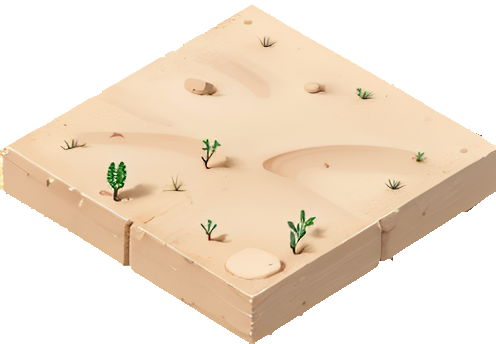
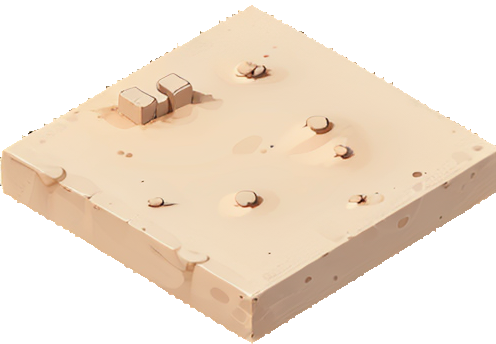
Reorganized and edited flat desert, vegetation, and forest textures; tweaked forest generation; improved river soil quality and worsened average desert soil quality

diff --git a/Map.cs b/Map.cs
@@ -22,9 +22,9 @@ public class Map
         tiles = new Tile[_mapTileSize.X *_mapTileSize.Y];
 
         // Load all of the tile textures
-        List<Texture2D> desertTextures = Sprites.LoadTextures("desert/flat", 30);
-        List<Texture2D> desertHillTextures = Sprites.LoadTextures("desert/hills", 5);
-        List<Texture2D> desertVegetationTextures = Sprites.LoadTextures("desert/vegetation", 6);
+        List<Texture2D> desertTextures = Sprites.LoadTextures("desert/flat", 18);
+        List<Texture2D> desertHillTextures = Sprites.LoadTextures("desert/hills", 7);
+        List<Texture2D> desertVegetationTextures = Sprites.LoadTextures("desert/vegetation", 12);
         List<Texture2D> desertBedouinTextures = Sprites.LoadTextures("desert/bedouin_camps", 5);
 
         // 500x345
@@ -219,7 +219,7 @@ public class Map
 
     public void GenerateForests()
     {
-        List<Texture2D> desertForestTextures = Sprites.LoadTextures("desert/forest", 3);
+        List<Texture2D> desertForestTextures = Sprites.LoadTextures("desert/forest", 5);
 
         // Make some forests, e.g. about 80 for a 128x128 map
         int NUM_FORESTS = (int)(0.005 * _mapTileSize.X * _mapTileSize.Y);
@@ -248,7 +248,12 @@ public class Map
             row.BaseSprite.Texture = desertForestTextures[Globals.Rand.Next(desertForestTextures.Count)];
 
             // Draw some number of tiles to the northeast for this row
-            int h = (int)(w * Globals.Rand.NextFloat(0.8f, 1.2f));
+            int h = w;
+            if (Globals.Rand.Next(2) == 0)
+                h += (int)(w * Globals.Rand.NextFloat(0.2f, 0.3f));
+            else
+                h -= (int)(w * Globals.Rand.NextFloat(0.2f, 0.3f));
+
             column = row;
 
             for (int y = 0; y < h / 2; y++)

diff --git a/Tile.cs b/Tile.cs
@@ -43,9 +43,9 @@ public class Tile
     public const int MAX_BUILDINGS = 6;
     public List<Building> Buildings { get; set; }
 
-    public const float MIN_SOIL_QUALITY = 0.4f;
-    public const float MAX_SOIL_QUALITY = 0.8f;
-    public const float RIVER_SOIL_QUALITY_BONUS = 0.2f;
+    public const float MIN_SOIL_QUALITY = 0.3f;
+    public const float MAX_SOIL_QUALITY = 0.6f;
+    public const float RIVER_SOIL_QUALITY_BONUS = 0.25f;
     public const float VEGETATION_SOIL_QUALITY_BONUS = 0.1f;
     public float SoilQuality { get; set; }
     
